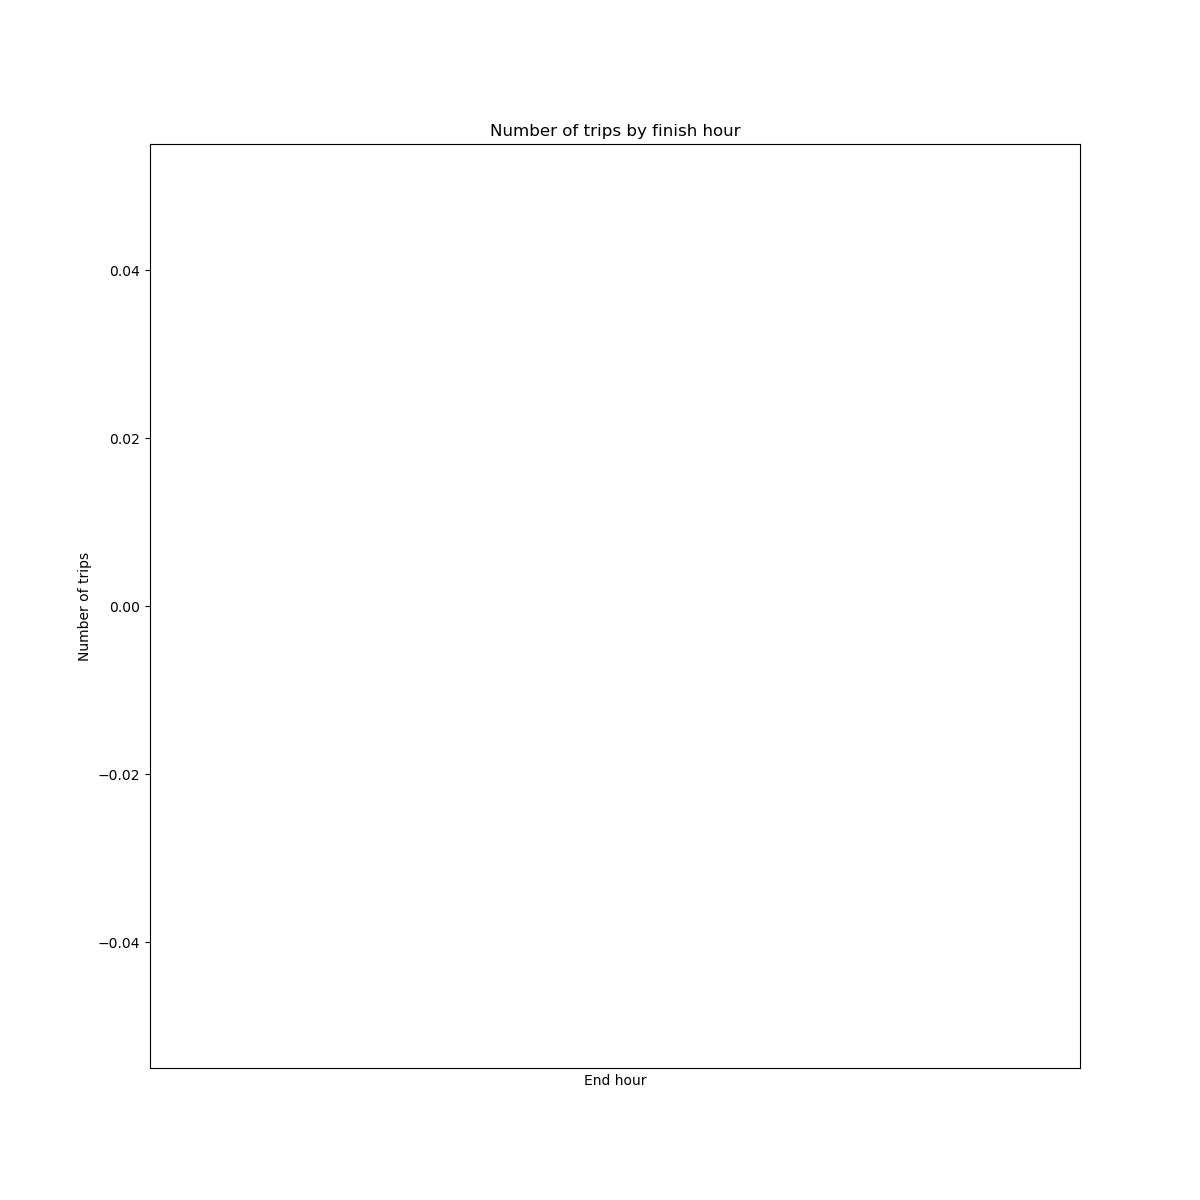
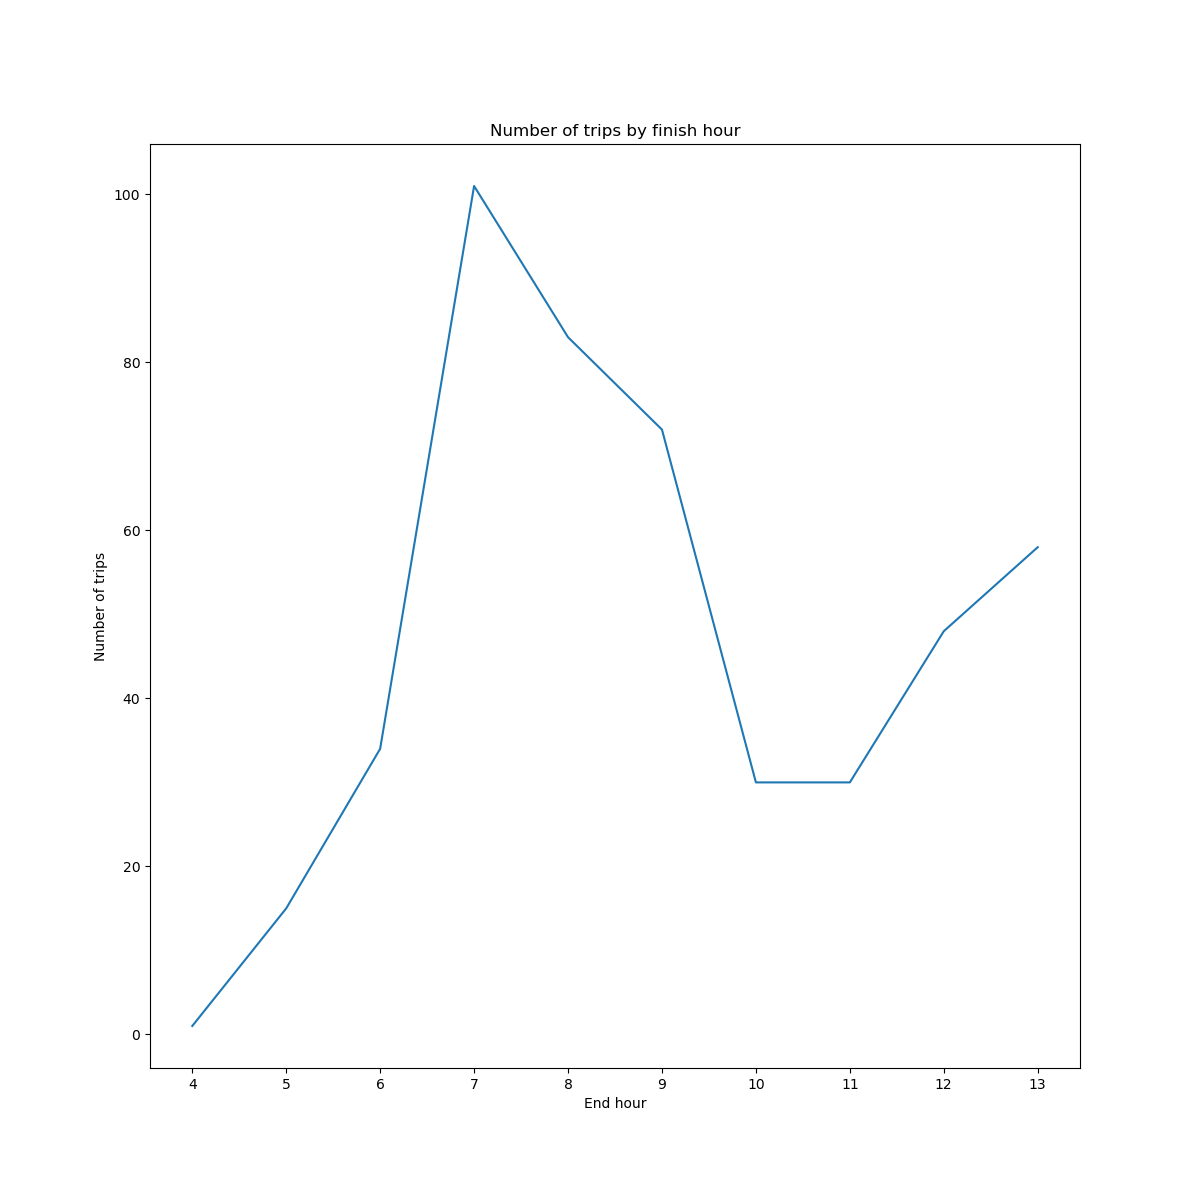
Fixed all filters

diff --git a/bsweb/src/components/filters/forms/DistanceForm.vue b/bsweb/src/components/filters/forms/DistanceForm.vue
@@ -15,7 +15,7 @@
 </template>
 
 <script>
-  import { mapActions, mapGetters } from 'vuex';
+  import { mapActions } from 'vuex';
   export default {
     props: ['fid'],
     data() {
@@ -27,7 +27,7 @@
       ageLabel() {
         return `${$t(ageField)} ${this.distanceRange[0]} - ${this.distanceRange[1]}`
       },
-      filterData() {
+      setFilterParams() {
         return {
           id: this.fid,
           params: {
@@ -36,15 +36,19 @@
         }
       }
     },
-    watch: {
-      filterData: function(value) {
-        this.updateFilterParams(value);
-      }
-    },
     methods: {
       ...mapActions([
-        'updateFilterParams'
-      ]),
+        'updateFilterParams',
+        'resetMapResource',
+        'filterData',
+      ])
+    },
+    watch: {
+      setFilterParams: function(value) {
+        this.updateFilterParams(value);
+        this.resetMapResource({ mapkey: "main", category: "flows", type: "polyline" });
+        this.filterData();
+      }
     }
   }
 </script>

diff --git a/bsweb/src/components/filters/forms/SpeedForm.vue b/bsweb/src/components/filters/forms/SpeedForm.vue
@@ -27,7 +27,7 @@
       ageLabel() {
         return `${$t('ageField')} ${this.speedRange[0]} - ${this.speedRange[1]}`
       },
-      filterData() {
+      setFilterParams() {
         return {
           id: this.fid,
           params: {
@@ -36,15 +36,19 @@
         }
       }
     },
-    watch: {
-      filterData: function(value) {
-        this.updateFilterParams(value);
-      }
-    },
     methods: {
       ...mapActions([
-        'updateFilterParams'
-      ]),
+        'updateFilterParams',
+        'resetMapResource',
+        'filterData',
+      ])
+    },
+    watch: {
+      setFilterParams: function(value) {
+        this.updateFilterParams(value);
+        this.resetMapResource({ mapkey: "main", category: "flows", type: "polyline" });
+        this.filterData();
+      }
     }
   }
 </script>

diff --git a/bsweb/src/components/filters/forms/AgeForm.vue b/bsweb/src/components/filters/forms/AgeForm.vue
@@ -27,7 +27,7 @@
       ageLabel() {
         return `${$t(ageField)} ${this.ageRange[0]} - ${this.ageRange[1]}`
       },
-      filterData() {
+      setFilterParams() {
         return {
           id: this.fid,
           params: {
@@ -36,15 +36,19 @@
         }
       }
     },
-    watch: {
-      filterData: function(value) {
-        this.updateFilterParams(value);
-      }
-    },
     methods: {
       ...mapActions([
-        'updateFilterParams'
-      ]),
+        'updateFilterParams',
+        'resetMapResource',
+        'filterData',
+      ])
+    },
+    watch: {
+      setFilterParams: function(value) {
+        this.updateFilterParams(value);
+        this.resetMapResource({ mapkey: "main", category: "flows", type: "polyline" });
+        this.filterData();
+      }
     }
   }
 </script>

diff --git a/bsweb/src/components/filters/forms/IncomeForm.vue b/bsweb/src/components/filters/forms/IncomeForm.vue
@@ -109,7 +109,7 @@
       interval() {
         return this.mode === 'interval'
       },
-      filterData() {
+      setFilterParams() {
         return {
           id: this.fid,
           params: {
@@ -123,13 +123,17 @@
       }
     },
     watch: {
-      filterData: function(value) {
+      setFilterParams: function(value) {
         this.updateFilterParams(value);
+        this.resetMapResource({ mapkey: "main", category: "flows", type: "polyline" });
+        this.filterData();
       }
     },
     methods: {
       ...mapActions([
-        'updateFilterParams'
+        'updateFilterParams',
+        'resetMapResource',
+        'filterData',
       ]),
       updateIncomeInterval(value) {
         let min_bracket = Math.min.apply(Math, value)

diff --git a/bsweb/src/components/filters/forms/SexForm.vue b/bsweb/src/components/filters/forms/SexForm.vue
@@ -21,7 +21,7 @@ import { mapActions } from 'vuex';
       };
     },
     computed: {
-      filterData() {
+      setFilterParams() {
         return {
           id: this.fid,
           params: {
@@ -32,12 +32,18 @@ import { mapActions } from 'vuex';
     },
     methods: {
       ...mapActions([
-        'updateFilterParams'
+        'updateFilterParams',
+        'resetData',
+        'resetMapResource',
+        'filterData',
       ])
     },
     watch: {
-      filterData: function(value) {
+      setFilterParams: function(value) {
         this.updateFilterParams(value);
+        this.resetData();
+        this.resetMapResource({ mapkey: "main", category: "flows", type: "polyline" });
+        this.filterData();
       }
     }
   }

diff --git a/bsweb/src/components/filters/forms/DurationForm.vue b/bsweb/src/components/filters/forms/DurationForm.vue
@@ -24,7 +24,7 @@
       }
     },
     computed: {
-      filterData() {
+      setFilterParams() {
         return {
           id: this.fid,
           params: {
@@ -33,15 +33,19 @@
         }
       }
     },
-    watch: {
-      filterData: function(value) {
-        this.updateFilterParams(value);
-      }
-    },
     methods: {
       ...mapActions([
-        'updateFilterParams'
-      ]),
+        'updateFilterParams',
+        'resetMapResource',
+        'filterData',
+      ])
+    },
+    watch: {
+      setFilterParams: function(value) {
+        this.updateFilterParams(value);
+        this.resetMapResource({ mapkey: "main", category: "flows", type: "polyline" });
+        this.filterData();
+      }
     }
   }
 </script>

diff --git a/bsweb/src/components/filters/forms/FinishTimeForm.vue b/bsweb/src/components/filters/forms/FinishTimeForm.vue
@@ -43,7 +43,7 @@
       };
     },
     computed: {
-      filterData() {
+      setFilterParams() {
         return {
           id: this.fid,
           params: {
@@ -57,12 +57,18 @@
     },
     methods: {
       ...mapActions([
-        'updateFilterParams'
+        'updateFilterParams',
+        'resetData',
+        'resetMapResource',
+        'filterData',
       ])
     },
     watch: {
-      filterData: function(value) {
+      setFilterParams: function(value) {
         this.updateFilterParams(value);
+        this.resetData();
+        this.resetMapResource({ mapkey: "main", category: "flows", type: "polyline" });
+        this.filterData();
       }
     }
   }

diff --git a/bsweb/src/components/filters/forms/ReasonForm.vue b/bsweb/src/components/filters/forms/ReasonForm.vue
@@ -46,7 +46,7 @@
       };
     },
     computed: {
-      filterData() {
+      setFilterParams() {
         return {
           id: this.fid,
           params: {
@@ -57,12 +57,18 @@
     },
     methods: {
       ...mapActions([
-        'updateFilterParams'
+        'updateFilterParams',
+        'resetData',
+        'resetMapResource',
+        'filterData',
       ])
     },
     watch: {
-      filterData: function(value) {
+      setFilterParams: function(value) {
         this.updateFilterParams(value);
+        this.resetData();
+        this.resetMapResource({ mapkey: "main", category: "flows", type: "polyline" });
+        this.filterData();
       }
     }
   }

diff --git a/bsweb/src/store/modules/filters.js b/bsweb/src/store/modules/filters.js
@@ -119,6 +119,7 @@ const actions = {
         commit('addAttractors', { attractors: heatmaps['attractors']});
         commit('addEmitters', { emitters: heatmaps['emitters']});
         commit('addCharts', { charts }) // adiciona a lista de gráficos na store
+        commit('resetData');
         tiers.map(tier => {
           commit('addTripsPerTier', { count: flows[tier].length });
           commit('addFlows', { tier: tier, flows: flows[tier]})

diff --git a/server/od.py b/server/od.py
@@ -43,7 +43,7 @@ class OD:
         filtered_trips = filtered_trips.append(trips[(trips['HORA_SAIDA'].dt.hour >= 18) & (trips['HORA_SAIDA'].dt.hour <= 23)])
     # filter by specific time, if selected
     if specific:
-      filtered_trips = filtered_trips.append([(trips['HORA_SAIDA'].dt.hour >= min_hour) & (trips['HORA_SAIDA'].dt.hour <= max_hour)])
+      filtered_trips = filtered_trips.append(trips[(trips['HORA_SAIDA'].dt.hour >= min_hour) & (trips['HORA_SAIDA'].dt.hour <= max_hour)])
     return filtered_trips
 
   def trips_by_finish_time(self, trips, periods, specific, min_hour, max_hour):
@@ -59,7 +59,7 @@ class OD:
         filtered_trips = filtered_trips.append(trips[(trips['HORA_CHEG'].dt.hour >= 18) & (trips['HORA_CHEG'].dt.hour <= 23)])
     # filter by specific time, if selected
     if specific:
-      filtered_trips = filtered_trips.append([(trips['HORA_CHEG'].dt.hour >= min_hour) & (trips['HORA_CHEG'].dt.hour <= max_hour)])
+      filtered_trips = filtered_trips.append(trips[(trips['HORA_CHEG'].dt.hour >= min_hour) & (trips['HORA_CHEG'].dt.hour <= max_hour)])
     return filtered_trips
 
   def trips_by_age(self, trips, age_range):
@@ -85,8 +85,8 @@ class OD:
     else:
       filtered_trips = pd.DataFrame(columns=trips.columns)
       for i in income_bracket:
-        filtered_trips = trips[(trips['RENDA_FA'] >= income_bracket_bounds[str(i)]['min'])
-                      & (trips['RENDA_FA'] <= income_bracket_bounds[str(i)]['max'])]
+        filtered_trips = filtered_trips.append(trips[(trips['RENDA_FA'] >= income_bracket_bounds[str(i)]['min'])
+                      & (trips['RENDA_FA'] <= income_bracket_bounds[str(i)]['max'])])
       return filtered_trips
   
   def trips_by_speed(self, trips, speed_range):

diff --git a/server/layers.py b/server/layers.py
@@ -64,18 +64,14 @@ class BikeLane(Resource):
 
 class Accidents(Resource):
   def load_accidents(self):
-    # df = pd.read_csv(data_path + "/acidentes-2015-2018.csv", encoding='utf-8')
     df = pd.read_csv(data_path + "/acidentes_infosiga_sp_maio21.csv", encoding='utf-8')
     gdf = gpd.GeoDataFrame(df, geometry=gpd.points_from_xy(df.lon, df.lat))
-    # accidents = gpd.GeoDataFrame.from_file(data_path + "/acidentes-2015-2018.csv", encoding='utf-8')
     gdf.crs = 'epsg:4326'
     accidents = gdf.to_crs('epsg:4326')
     return accidents
 
   def get(self):
     return self.load_accidents().to_json()
-
-
 class Zones(Resource):
   def get(self):
     return zones
